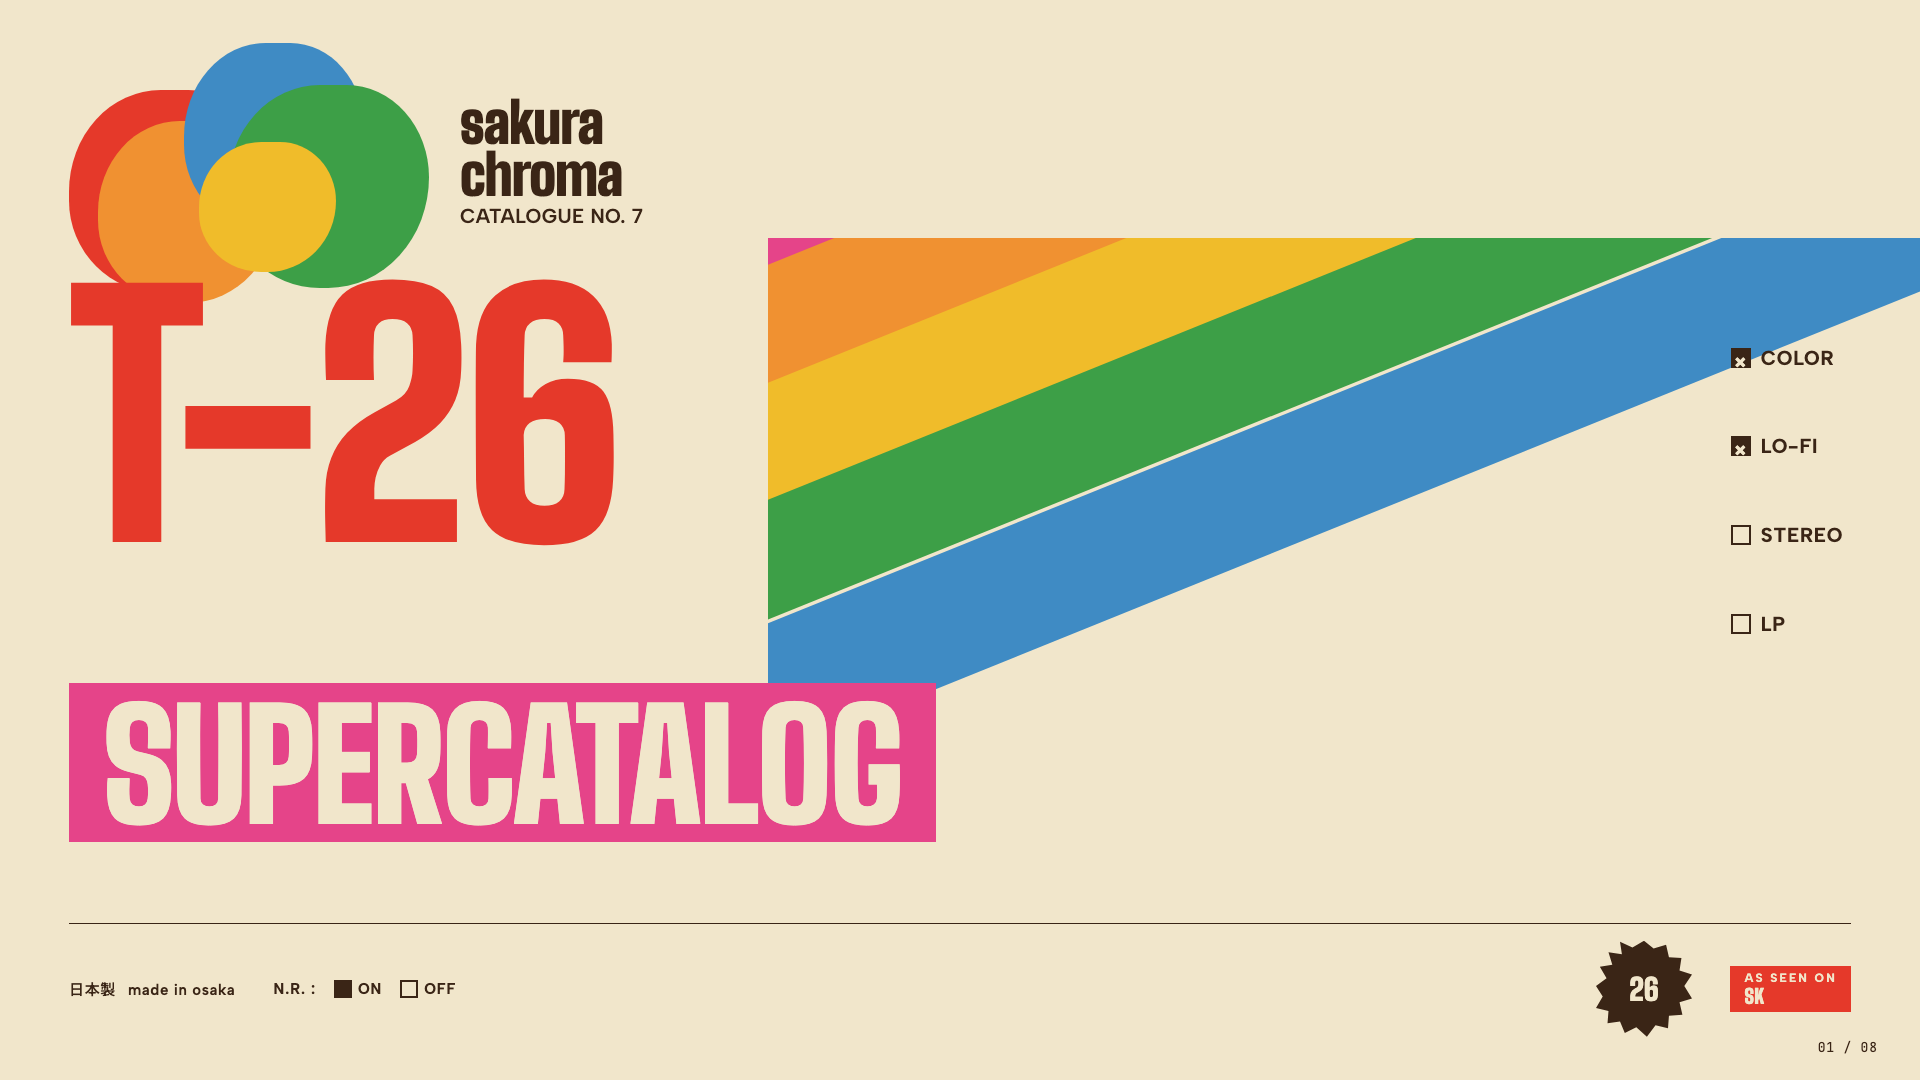
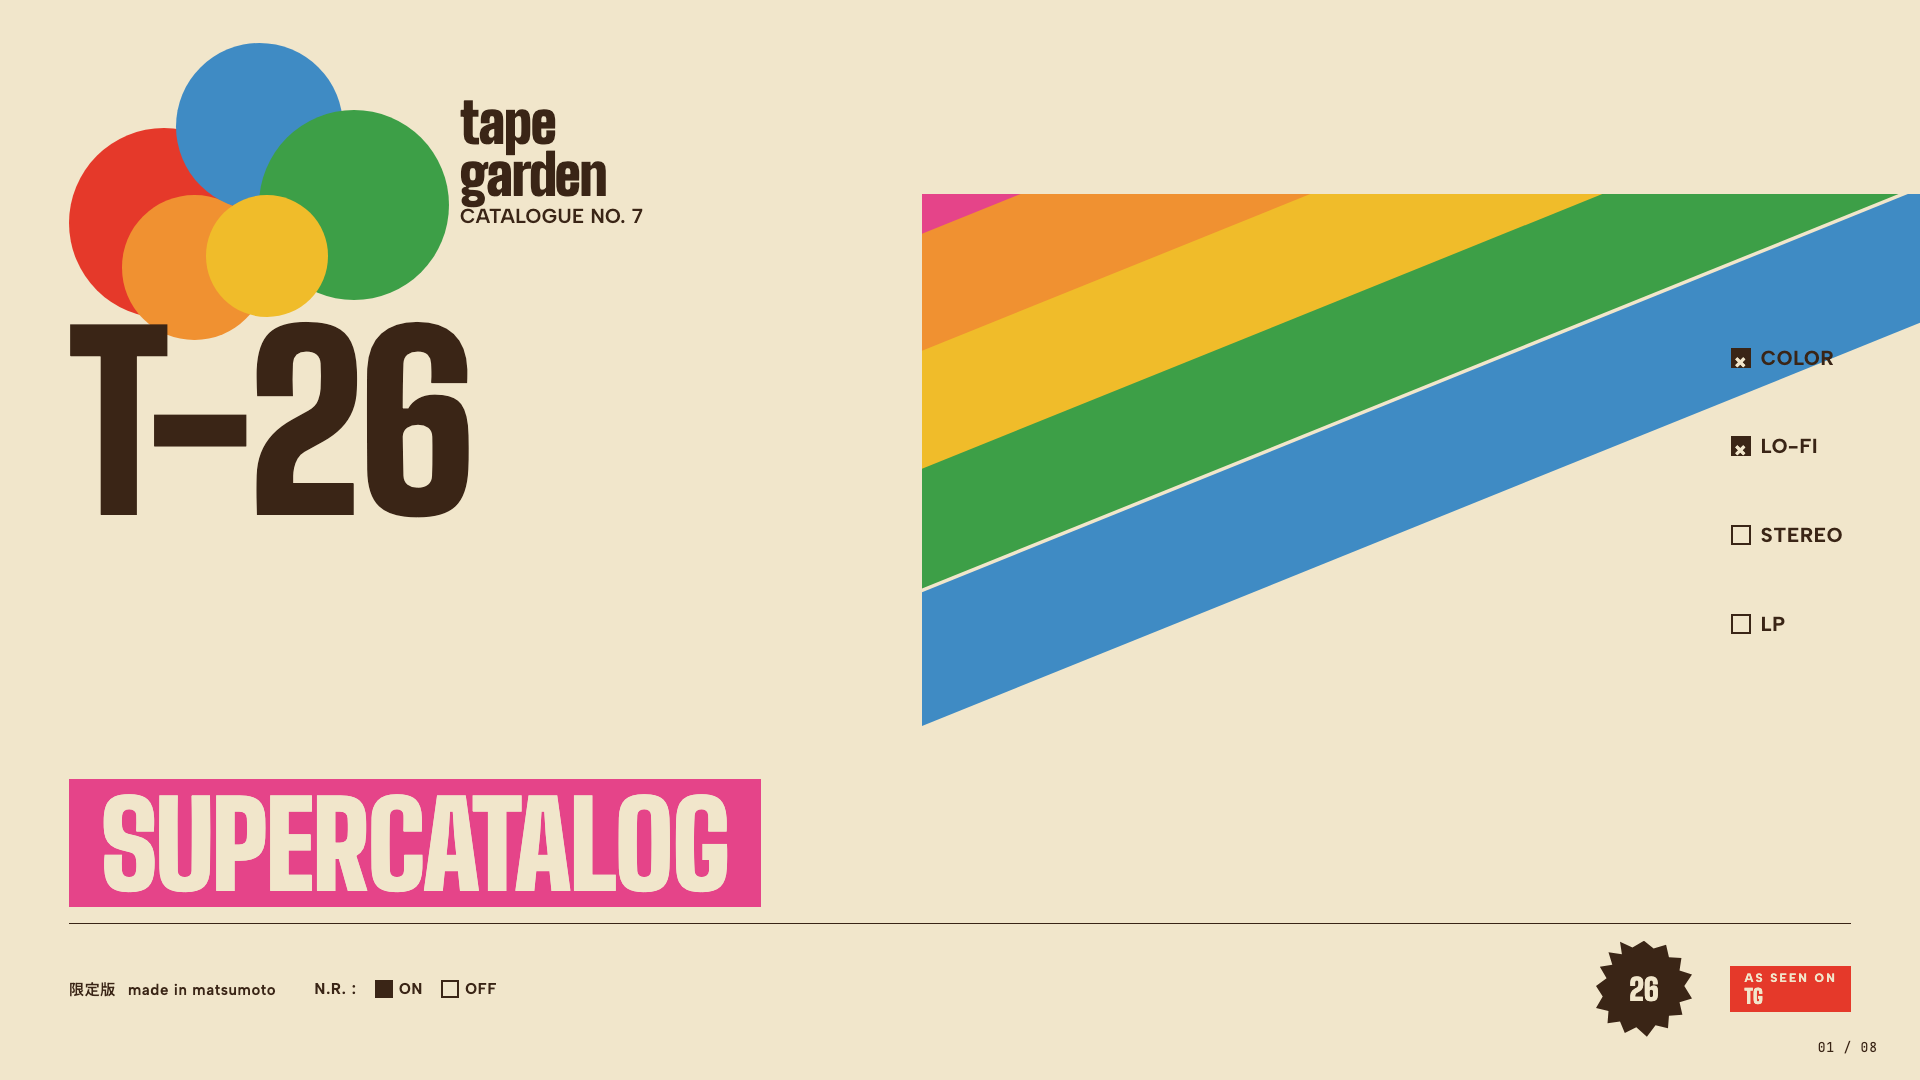
sakura-chroma: perfect circles, ink hero, no reference text
Polishes the sakura-chroma template based on review feedback:
- Petals and blobs are now perfect circles (aspect-ratio: 1, border-
  radius: 50%) instead of irregular blob shapes.
- Removes literal reference-image text from slide content: 'sakura
  chroma' replaced with 'tape garden' brand lockup; 日本製 replaced
  with 限定版; AS SEEN ON SK -> AS SEEN ON TG; Osaka -> Matsumoto.
  Template name and slug intentionally retained as 'sakura-chroma'.
- Cover hero T-26 now uses ink (not red) and is anchored well below
  the petal cluster. Ribbon band narrowed to right 52% so the hero
  sits cleanly on cream paper.
- Colophon emphasis 'volume eight' switched from red to ink italic
  for readability against the ribbon stripes underneath.
- Gallery row now shows slides 1, 3, 4 (cover, catalogue, ribbon
  spread) instead of 1, 3, 5.

diff --git a/templates/sakura-chroma/template.html b/templates/sakura-chroma/template.html
@@ -122,9 +122,12 @@
     z-index: 3;
   }
   .petal {
+    /* Perfect circles. aspect-ratio: 1 forces height to match the
+       width set per-petal below, so percentages on the parent stay
+       useful but the shape is always round. */
     position: absolute;
-    width: 100%; height: 100%;
-    border-radius: 50% 45% 55% 50% / 55% 50% 60% 50%;
+    border-radius: 50%;
+    aspect-ratio: 1 / 1;
   }
 
   /* ─── DECORATIVE: diagonal stripe band ──────────────────────── */
@@ -183,18 +186,18 @@
     grid-template-rows: auto 1fr auto;
   }
 
-  /* Petal cluster top-left */
+  /* Petal cluster top-left — five overlapping perfect circles */
   .s-cover .petals {
-    top: clamp(40px, 4vh, 72px);
+    top: clamp(36px, 4vh, 64px);
     left: clamp(36px, 3.6vw, 72px);
-    width: clamp(220px, 22vw, 360px);
-    height: clamp(160px, 16vw, 260px);
+    width: clamp(280px, 22vw, 380px);
+    height: clamp(220px, 17.6vw, 304px);
   }
-  .s-cover .petals .p1 { background: var(--red);    width: 56%; height: 78%; left: 0;     top: 18%; }
-  .s-cover .petals .p2 { background: var(--orange); width: 50%; height: 70%; left: 8%;    top: 30%; }
-  .s-cover .petals .p3 { background: var(--blue);   width: 50%; height: 72%; left: 32%;   top: 0; }
-  .s-cover .petals .p4 { background: var(--green);  width: 56%; height: 78%; left: 44%;   top: 16%; }
-  .s-cover .petals .p5 { background: var(--yellow); width: 38%; height: 50%; left: 36%;   top: 38%; }
+  .s-cover .petals .p1 { background: var(--red);    width: 50%; left: 0;   top: 28%; }
+  .s-cover .petals .p2 { background: var(--orange); width: 38%; left: 14%; top: 50%; }
+  .s-cover .petals .p3 { background: var(--blue);   width: 44%; left: 28%; top: 0; }
+  .s-cover .petals .p4 { background: var(--green);  width: 50%; left: 50%; top: 22%; }
+  .s-cover .petals .p5 { background: var(--yellow); width: 32%; left: 36%; top: 50%; }
 
   /* Brand lockup next to petals */
   .s-cover .brand {
@@ -220,44 +223,50 @@
     letter-spacing: 0.02em;
   }
 
-  /* Hero number — gigantic red T-26 */
+  /* Hero number — gigantic ink-coloured T-26.
+     We anchor it well below the petal cluster so the two never collide
+     on shorter viewports, and use ink (not red) so it stays readable
+     where the diagonal ribbons sweep behind it. */
   .s-cover .hero {
     position: absolute;
     left: clamp(36px, 3.6vw, 72px);
-    top: clamp(220px, 26vh, 360px);
+    top: clamp(290px, 30vh, 440px);
     font-family: 'Big Shoulders Display', sans-serif;
     font-weight: 900;
-    font-size: clamp(160px, min(20vw, 30vh), 360px);
-    color: var(--red);
+    font-size: clamp(120px, min(14vw, 22vh), 280px);
+    color: var(--ink);
     line-height: 0.84;
     letter-spacing: -0.025em;
     z-index: 4;
   }
 
-  /* The big condensed lockup */
+  /* The big condensed lockup — pink bar with cream type, sitting between
+     the hero number and the footer row. */
   .s-cover .lockup {
     position: absolute;
     left: clamp(36px, 3.6vw, 72px);
-    bottom: clamp(220px, 22vh, 320px);
+    bottom: clamp(150px, 16vh, 240px);
     font-family: 'Big Shoulders Display', sans-serif;
     font-weight: 900;
-    font-size: clamp(70px, min(8.6vw, 14vh), 160px);
+    font-size: clamp(56px, min(7vw, 11vh), 130px);
     color: var(--paper);
     -webkit-text-stroke: 0;
     line-height: 0.9;
     letter-spacing: -0.015em;
     background: var(--pink);
-    padding: clamp(10px, 1.4vh, 22px) clamp(20px, 2vw, 34px) clamp(6px, 0.8vh, 14px);
+    padding: clamp(8px, 1.2vh, 18px) clamp(18px, 1.8vw, 32px) clamp(6px, 0.8vh, 12px);
     z-index: 4;
   }
 
-  /* Diagonal multi-colour stripe band that sweeps right and down */
+  /* Diagonal multi-colour stripe band that sweeps right and down.
+     Positioned in the right-half of the slide so the hero number on
+     the left can sit on clean cream paper. */
   .s-cover .ribbons {
     position: absolute;
     right: 0;
-    top: clamp(180px, 22vh, 300px);
-    bottom: clamp(140px, 14vh, 220px);
-    width: 60%;
+    top: clamp(160px, 18vh, 280px);
+    bottom: clamp(180px, 18vh, 280px);
+    width: 52%;
     z-index: 3;
     pointer-events: none;
     overflow: hidden;
@@ -390,16 +399,17 @@
   /* ─── SLIDE 2 — MANIFESTO (single bold statement, scattered blobs) ─ */
   .s-manifesto { background: var(--paper); }
   .s-manifesto .blob {
+    /* Perfect circles: width === height since we use vmin units. */
     position: absolute;
-    border-radius: 50% 45% 55% 50% / 55% 50% 60% 50%;
+    border-radius: 50%;
     z-index: 2;
   }
-  .s-manifesto .blob.b-red    { background: var(--red);    width: 18vmin; height: 14vmin; top: 8%; left: 6%; }
-  .s-manifesto .blob.b-orange { background: var(--orange); width: 14vmin; height: 12vmin; top: 18%; left: 16%; }
-  .s-manifesto .blob.b-yellow { background: var(--yellow); width: 13vmin; height: 11vmin; top: 75%; left: 8%; }
-  .s-manifesto .blob.b-green  { background: var(--green);  width: 16vmin; height: 13vmin; top: 70%; left: 78%; }
-  .s-manifesto .blob.b-blue   { background: var(--blue);   width: 14vmin; height: 12vmin; top: 14%; left: 78%; }
-  .s-manifesto .blob.b-pink   { background: var(--pink);   width: 12vmin; height: 10vmin; top: 28%; left: 86%; }
+  .s-manifesto .blob.b-red    { background: var(--red);    width: 16vmin; height: 16vmin; top: 8%;  left: 6%; }
+  .s-manifesto .blob.b-orange { background: var(--orange); width: 12vmin; height: 12vmin; top: 22%; left: 16%; }
+  .s-manifesto .blob.b-yellow { background: var(--yellow); width: 12vmin; height: 12vmin; top: 75%; left: 8%; }
+  .s-manifesto .blob.b-green  { background: var(--green);  width: 14vmin; height: 14vmin; top: 70%; left: 78%; }
+  .s-manifesto .blob.b-blue   { background: var(--blue);   width: 13vmin; height: 13vmin; top: 14%; left: 78%; }
+  .s-manifesto .blob.b-pink   { background: var(--pink);   width: 11vmin; height: 11vmin; top: 30%; left: 86%; }
 
   .s-manifesto .stmt-wrap {
     position: relative; z-index: 5;
@@ -724,12 +734,11 @@
     pointer-events: none;
     z-index: 3;
   }
-  .s-quote .qpetals .petal { position: absolute; }
-  .s-quote .qpetals .p1 { background: var(--pink);   width: 56%; height: 78%; left: 0;     top: 18%; border-radius: 50% 45% 55% 50% / 55% 50% 60% 50%; }
-  .s-quote .qpetals .p2 { background: var(--orange); width: 50%; height: 70%; left: 12%;   top: 30%; border-radius: 50% 45% 55% 50% / 55% 50% 60% 50%; }
-  .s-quote .qpetals .p3 { background: var(--yellow); width: 48%; height: 70%; left: 36%;   top: 0;   border-radius: 50% 45% 55% 50% / 55% 50% 60% 50%; }
-  .s-quote .qpetals .p4 { background: var(--blue);   width: 50%; height: 70%; left: 50%;   top: 22%; border-radius: 50% 45% 55% 50% / 55% 50% 60% 50%; }
-  .s-quote .qpetals .p5 { background: var(--green);  width: 38%; height: 50%; left: 36%;   top: 40%; border-radius: 50% 45% 55% 50% / 55% 50% 60% 50%; }
+  .s-quote .qpetals .p1 { background: var(--pink);   width: 50%; left: 0;   top: 28%; }
+  .s-quote .qpetals .p2 { background: var(--orange); width: 38%; left: 16%; top: 50%; }
+  .s-quote .qpetals .p3 { background: var(--yellow); width: 44%; left: 30%; top: 0; }
+  .s-quote .qpetals .p4 { background: var(--blue);   width: 50%; left: 50%; top: 26%; }
+  .s-quote .qpetals .p5 { background: var(--green);  width: 32%; left: 36%; top: 50%; }
 
   .s-quote .qframe {
     position: absolute;
@@ -887,11 +896,10 @@
     pointer-events: none;
     z-index: 4;
   }
-  .s-colophon .col-petals .petal { position: absolute; border-radius: 50% 45% 55% 50% / 55% 50% 60% 50%; }
-  .s-colophon .col-petals .p1 { background: var(--red);    width: 56%; height: 78%; left: 0;     top: 18%; }
-  .s-colophon .col-petals .p2 { background: var(--orange); width: 50%; height: 70%; left: 14%;   top: 30%; }
-  .s-colophon .col-petals .p3 { background: var(--green);  width: 50%; height: 72%; left: 32%;   top: 0; }
-  .s-colophon .col-petals .p4 { background: var(--blue);   width: 56%; height: 78%; left: 44%;   top: 16%; }
+  .s-colophon .col-petals .p1 { background: var(--red);    width: 50%; left: 0;   top: 28%; }
+  .s-colophon .col-petals .p2 { background: var(--orange); width: 38%; left: 16%; top: 50%; }
+  .s-colophon .col-petals .p3 { background: var(--green);  width: 44%; left: 30%; top: 0; }
+  .s-colophon .col-petals .p4 { background: var(--blue);   width: 50%; left: 50%; top: 22%; }
 
   .s-colophon .titlewrap {
     position: absolute;
@@ -917,7 +925,9 @@
     color: var(--ink);
     letter-spacing: -0.022em;
   }
-  .s-colophon .ttl em { color: var(--red); font-style: normal; }
+  /* Colophon emphasis stays ink — the ribbons behind the title are
+     too colour-saturated for a red em to clear contrast. */
+  .s-colophon .ttl em { color: var(--ink); font-style: italic; font-weight: 900; }
 
   .s-colophon .col-footer {
     position: absolute;
@@ -996,7 +1006,7 @@
 
       <!-- brand lockup -->
       <div class="brand">
-        <div class="b1">sakura<br/>chroma</div>
+        <div class="b1">tape<br/>garden</div>
         <div class="b2">CATALOGUE NO. 7</div>
       </div>
 
@@ -1023,7 +1033,7 @@
 
       <!-- footer -->
       <div class="cfooter">
-        <div class="made caption"><span class="jp caption">日本製</span>made in osaka</div>
+        <div class="made caption"><span class="jp caption">限定版</span>made in matsumoto</div>
         <div class="nr caption">
           <span class="caption">N.R. :</span>
           <span class="opt"><span class="b fill"></span><span class="caption">ON</span></span>
@@ -1032,7 +1042,7 @@
         <div class="seal caption">26</div>
         <div class="stamp caption">
           <div class="lab2 caption">AS SEEN ON</div>
-          <div>SK</div>
+          <div>TG</div>
         </div>
       </div>
 
@@ -1068,7 +1078,7 @@
               <div class="nm">SC-01<br/>BLOOM&nbsp;PEDAL</div>
               <div class="desc">A tape-saturation pedal voiced after the late-70s consumer cassette decks we grew up listening to. Three knobs, one switch, one extremely warm output that turns any clean signal into something that sounds like a memory.</div>
               <div class="extras">
-                <div>Hand-wired in our Osaka workshop, one batch at a time, with a small cream rosette stamped on the bottom plate.</div>
+                <div>Hand-wired in our Matsumoto workshop, one batch at a time, with a small cream rosette stamped on the bottom plate.</div>
               </div>
               <div class="specs">
                 <div class="row"><span class="k caption">FORMAT</span><span class="caption">9V pedal</span></div>
@@ -1117,7 +1127,7 @@
             <div class="topstrip"></div>
             <div class="body">
               <div class="nm">SC-04<br/>MIX&nbsp;CHAIR</div>
-              <div class="desc">A listening chair upholstered in cassette-loop fabric, woven from our own studio off-cuts in our Osaka workshop. Sells out before we finish photographing it; we keep making it anyway, slowly, one at a time.</div>
+              <div class="desc">A listening chair upholstered in cassette-loop fabric, woven from our own studio off-cuts in our Matsumoto workshop. Sells out before we finish photographing it; we keep making it anyway, slowly, one at a time.</div>
               <div class="extras">
                 <div>Each chair is signed on the underside by the maker and dated to the day it left the workshop.</div>
               </div>
@@ -1298,7 +1308,7 @@
           <div class="row">
             <div class="date-tag caption">03.10</div>
             <div class="ttl-row">Open studio &amp; listening night</div>
-            <div class="ven">Osaka workshop</div>
+            <div class="ven">Matsumoto workshop</div>
             <div><span class="chip c-green caption">EVENT</span></div>
             <div class="nr-cell"><span class="b"></span><span class="b fill"></span></div>
           </div>
@@ -1344,7 +1354,7 @@
       <div class="col-footer">
         <div>
           <div class="ftag caption">Studio</div>
-          <div class="ftxt">Sakura Chroma · Osaka<br/>est. 2017</div>
+          <div class="ftxt">Tape Garden · Matsumoto<br/>est. 2018</div>
         </div>
         <div>
           <div class="ftag caption">Designed</div>

diff --git a/README.md b/README.md
@@ -311,7 +311,7 @@ All 30 templates. Three slides per template (cover · mid-deck · later) to give
 <p>
   <img src="./screenshots/sakura-chroma-1.png" width="32.5%" alt="Sakura Chroma — slide 1" />
   <img src="./screenshots/sakura-chroma-3.png" width="32.5%" alt="Sakura Chroma — slide 3" />
-  <img src="./screenshots/sakura-chroma-5.png" width="32.5%" alt="Sakura Chroma — slide 5" />
+  <img src="./screenshots/sakura-chroma-4.png" width="32.5%" alt="Sakura Chroma — slide 4" />
 </p>
 
 > Vintage Japanese cassette-package aesthetic: cream paper, diagonal rainbow ribbons, condensed bold type, JIS-style spec checkboxes.
